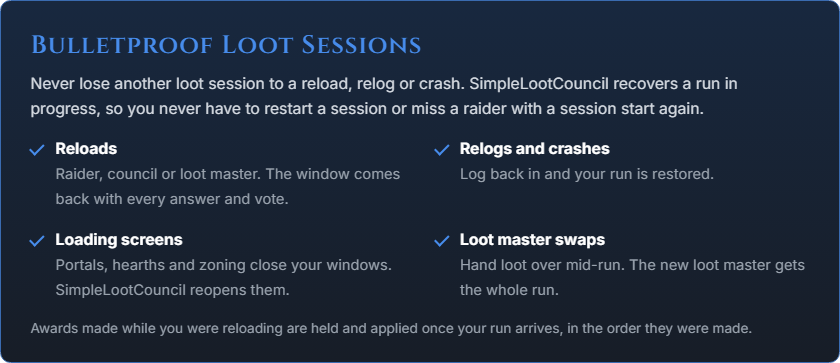
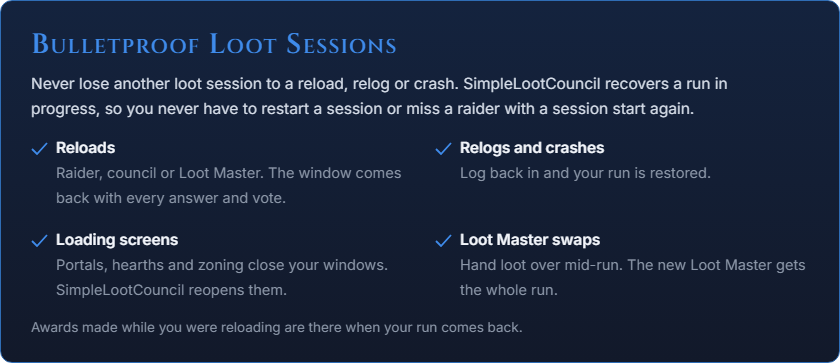
Bring the README and bug report template up to date for 1.0
Drop the beta line and English-only note, correct the four-hour trade window, CSV-only import and the Forever item flow, rename delegation to promotion, capitalise Loot Master and Master Looter, keep the performance claim without the mechanism. The template now names where the version shows and asks for a verbose log. The sessions image gets the same capitalisation and loses its line about held awards.

diff --git a/README.md b/README.md
@@ -7,7 +7,7 @@
   <a href="https://simplelootcouncil.github.io/#commands"><img src="media/button-commands.png" alt="Commands"></a>
 </p>
 
-**SimpleLootCouncil** is a loot council for **Retail and Forever** raids. Where there is no master looter, the council votes on items sitting in a raider's bags inside the two-hour trade window. Raiders answer, the council votes, the loot master awards, and the holder's trade window fills itself.
+**SimpleLootCouncil** is a loot council for **Retail and Forever** raids. Where there is no Master Looter, the council votes on items sitting in a raider's bags inside the four-hour trade window. Raiders answer, the council votes, the Loot Master awards, and the holder's trade window fills itself.
 
 <p align="center"><img src="media/bulletproof-loot-sessions.png" alt="Bulletproof Loot Sessions"></p>
 
@@ -15,7 +15,7 @@
 
 Votes happen on items still inside their trade window. When an item is awarded, its holder is told, and opening a trade with the winner fills it automatically. An award only counts as **delivered** once the item has actually changed hands.
 
-On **WoW Forever**, master loot is back. The loot master holds the drop, the council votes the same way, and the item goes straight to the winner.
+On **WoW Forever**, the Master Looter loot method is back. The Master Looter is the Loot Master: the drop goes to their bags, the council votes the same way, and a trade hands it to the winner.
 
 ## Light on Screen Space
 
@@ -23,18 +23,19 @@ SimpleLootCouncil gives you compact frame options for the council voting frame a
 
 ## Performant at Any Scale
 
-Answers from a 40-player raid cost about 0.04 ms each. The council table redraws in place, at most a few times a second, and addon messages are paced so other addons are never crowded out.
+Answers from a 40-player raid cost about 0.04 ms each, so a full raid's answers never stall your game, and closed windows cost almost nothing.
 
 ## Bring Your History
 
-Import award history from RCLootCouncil or Loothing, from saved data or a pasted CSV, so your council isn't starting blind.
+Import award history from RCLootCouncil or Loothing by pasting a CSV export, so your council isn't starting blind.
 
 ## Features
 
 - Live council voting
 - Custom response buttons
 - Council by name or guild rank
-- Loot master delegation
+- Loot from council members' bags, with sessions the council can request or start
+- Loot Master promotion, remembered for your next raid
 - Autopass on unusable gear
 - Equipped-gear and tier-set comparison
 - Bonus-roll tracking
@@ -43,28 +44,25 @@ Import award history from RCLootCouncil or Loothing, from saved data or a pasted
 - Raid team view by guild rank
 - Attendance
 - CSV export
-- WowUtils wishlist support
+- WowUtils, Guilds of WoW and wowaudit wishlist support
 - SimulationCraft export
+- Settings search, window opacity and window scale
 
 ## Languages
 
-SimpleLootCouncil runs on every World of Warcraft client language: rolls are read from chat, plurals and punctuation follow your language, and Cyrillic, Korean and Chinese text draws in the right font.
+SimpleLootCouncil runs on every World of Warcraft client language: rolls work in every language, plurals and punctuation follow your language, and Cyrillic, Korean and Chinese text draws in the right font.
 
 English (enUS, enGB) · Deutsch (deDE) · Français (frFR) · Español (esES, esMX) · Italiano (itIT) · Português (ptBR) · Русский (ruRU) · 한국어 (koKR) · 简体中文 (zhCN) · 繁體中文 (zhTW)
 
-All interface text is English for now. Full translation is the next goal for SLC, but making sure it ran on every client localization was a top priority.
-
-Every string is ready to translate. Translators are deeply desired, and any interested parties are encouraged to join the [Discord](https://discord.gg/simplelootcouncil)!
-
-## SimpleLootCouncil is currently in public beta testing, if you encounter issues please report them.
+The interface is translated into every language above. Not every translation has been checked by a native speaker yet, so translators are deeply desired, and any interested parties are encouraged to join the [Discord](https://discord.gg/simplelootcouncil)!
 
 ## Getting Started
 
-Install it with WowUp: **Install from URL** with this repo's address. Everyone who takes part needs it. The group leader runs loot by default. Add your council with `/slc council add Name-Realm`, and type `/slc` for settings or `/slc help` for every command.
+Install it from [CurseForge](https://www.curseforge.com/wow/addons/simplelootcouncil) or [Wago](https://addons.wago.io/addons/simplelootcouncil), or with WowUp: **Install from URL** with this repo's address. Everyone who takes part needs it. The group leader is the Loot Master by default. Add your council with `/slc council add Name-Realm`, and type `/slc` for settings or `/slc help` for every command. The [feature guide](https://simplelootcouncil.github.io/) covers the rest.
 
 ## Support
 
-Found a bug? [Open an issue](https://github.com/SimpleLootCouncil/SimpleLootCouncil/issues/new/choose) with your version and what `/slc log` shows.
+Found a bug? Type `/slc log level verbose`, make it happen again, then [open an issue](https://github.com/SimpleLootCouncil/SimpleLootCouncil/issues/new/choose) with your version and what `/slc log` shows.
 
 SimpleLootCouncil is free. If it saves your raid some arguing, you can support its development on [Ko-fi](https://ko-fi.com/laxxz).
 
